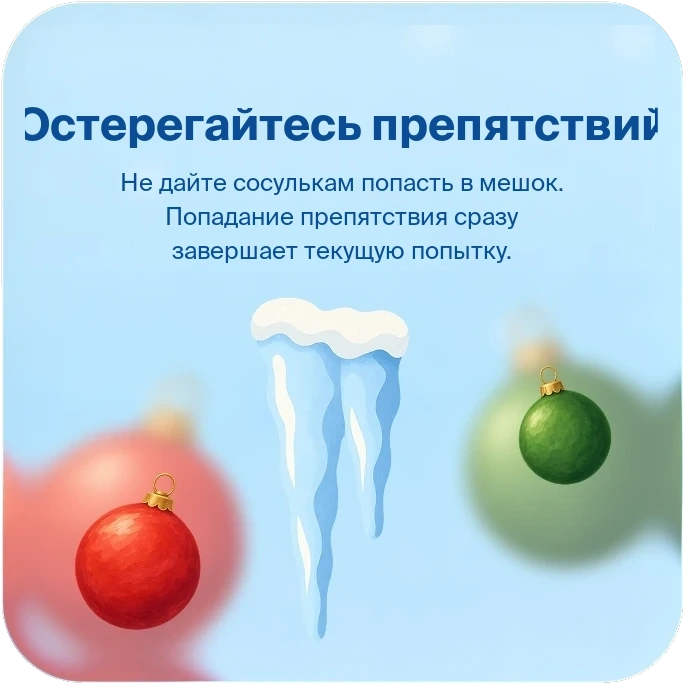
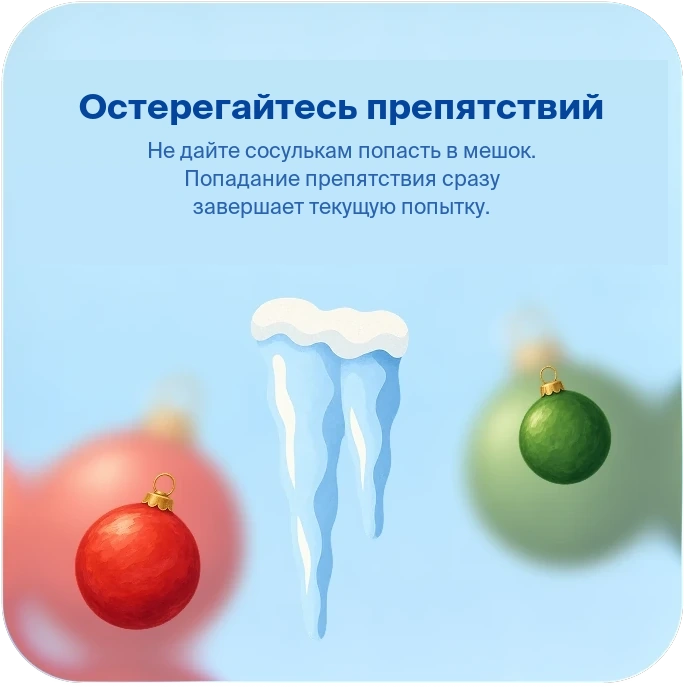
Fix rules card 4 text padding and eliminate flicker with image preloading and smooth transition

Changed region(s): [[0.0307, 0.1223, 0.9825, 0.3974]]

diff --git a/game.js b/game.js
@@ -215,6 +215,12 @@
         { src: 'assets/rules_card_6.webp', alt: 'Правило 6: Поймайте все блюда' }
     ];
 
+    // Предзагрузка всех карточек правил в кэш браузера (плавный переход без мерцания 1:1 как в Match 3)
+    RULES_DATA.forEach(r => {
+        const img = new Image();
+        img.src = r.src;
+    });
+
     // ----------------------------------------------------
     // ИГРОВОЙ ДВИЖОК ЛОВЛИ (CATCH ENGINE)
     // ----------------------------------------------------
@@ -1101,7 +1107,12 @@
 
             if (this.dom.rulesCardSlot) {
                 const existingImg = this.dom.rulesCardSlot.querySelector('.rules-card-img');
-                if (!existingImg || existingImg.getAttribute('src') !== data.src) {
+                if (existingImg) {
+                    if (existingImg.getAttribute('src') !== data.src) {
+                        existingImg.src = data.src;
+                        existingImg.alt = data.alt;
+                    }
+                } else {
                     this.dom.rulesCardSlot.innerHTML = `<img src="${data.src}" class="rules-card-img" alt="${data.alt}">`;
                 }
             }

diff --git a/index.html b/index.html
@@ -8,7 +8,7 @@
     <meta name="mobile-web-app-capable" content="yes">
     <meta name="theme-color" content="#7bb5e8">
     <title>Новогодняя Игра — Мешок Деда Мороза (LB Bonus)</title>
-    <link rel="stylesheet" href="style.css?v=4.5.0">
+    <link rel="stylesheet" href="style.css?v=4.6.0">
     <link rel="preconnect" href="https://fonts.googleapis.com" crossorigin>
     <link rel="preconnect" href="https://fonts.gstatic.com" crossorigin>
     <link rel="stylesheet" href="https://fonts.googleapis.com/css2?family=Cormorant+Garamond:wght@600;700&family=Oranienbaum&family=Rubik:ital,wght@0,400;0,500;0,600;0,700;0,800;0,900;1,700;1,900&display=swap" media="print" onload="this.media='all'">
@@ -198,6 +198,6 @@
         </div>
     </div>
 
-    <script src="game.js?v=4.4.0"></script>
+    <script src="game.js?v=4.6.0"></script>
 </body>
 </html>

diff --git a/style.css b/style.css
@@ -681,6 +681,7 @@ html, body {
     pointer-events: none;
     user-select: none;
     display: block;
+    transition: opacity 0.15s ease-out;
 }
 
 .rules-pagination {
